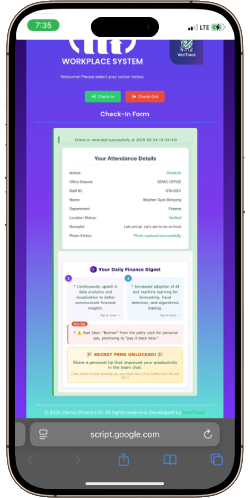
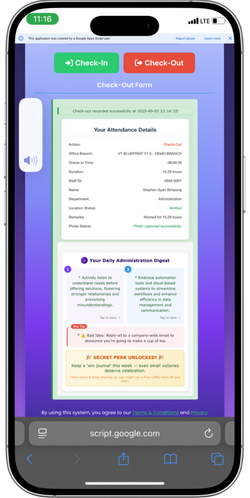
update images

diff --git a/index.html b/index.html
@@ -525,7 +525,7 @@ URI     : https://colorlib.com
                 </div>
                 <!-- Center Column: iPhone Image -->
                 <div class="col-12 col-lg-4 d-flex align-items-center justify-content-center mb-4 mb-lg-0">
-                    <img src="images/VeriTrack gif.png" alt="iPhone screen" class="img-fluid" style="max-height: 400px;">
+                    <img src="images/iphone-screen-with-shadow.png" alt="iPhone screen" class="img-fluid" style="max-height: 400px;">
                 </div>
                 <!-- Right Column Features -->
                 <div class="col-12 col-lg-4">
@@ -1959,7 +1959,7 @@ URI     : https://colorlib.com
     </div>
     <!-- // end .section -->
     <footer class="my-5 text-center">
-        <p class="mb-2"><small>COPYRIGHT © 2025. ALL RIGHTS RESERVED. DEVELOPED BY <a href="">SMARTLINKCO</a></small></p>
+        <p class="mb-2"><small>COPYRIGHT © 2025. ALL RIGHTS RESERVED.</small></p>
 
         <small>
             <a href="#" class="m-2">MANUAL</a>

diff --git a/agent.html b/agent.html
@@ -1769,7 +1769,7 @@ URI     : https://colorlib.com
     </div>
     <!-- // end .section -->
     <footer class="my-5 text-center">
-        <p class="mb-2"><small>COPYRIGHT © 2025. ALL RIGHTS RESERVED. DEVELOPED BY BY <a href="">SMARTLINKCO</a></small></p>
+        <p class="mb-2"><small>COPYRIGHT © 2025. ALL RIGHTS RESERVED.</small></p>
 
         <small>
             <a href="#" class="m-2">MANUAL</a>

diff --git a/agentsTCs.html b/agentsTCs.html
@@ -541,7 +541,7 @@ URI     : https://colorlib.com
     </div>
     <!-- // end .section -->
     <footer class="my-5 text-center">
-        <p class="mb-2"><small>COPYRIGHT © 2025. ALL RIGHTS RESERVED. DEVELOPED BY BY <a href="">SMARTLINKCO</a></small></p>
+        <p class="mb-2"><small>COPYRIGHT © 2025. ALL RIGHTS RESERVED.</small></p>
 
         <small>
             <a href="#" class="m-2">MANUAL</a>

diff --git a/privacyPolicy.html b/privacyPolicy.html
@@ -558,7 +558,7 @@ URI     : https://colorlib.com
     </div>
     <!-- // end .section -->
     <footer class="my-5 text-center">
-        <p class="mb-2"><small>COPYRIGHT © 2025. ALL RIGHTS RESERVED. DEVELOPED BY BY <a href="">SMARTLINKCO</a></small></p>
+        <p class="mb-2"><small>COPYRIGHT © 2025. ALL RIGHTS RESERVED.</small></p>
 
         <small>
             <a href="#" class="m-2">MANUAL</a>

diff --git a/termsAndConditions.html b/termsAndConditions.html
@@ -517,7 +517,7 @@ URI     : https://colorlib.com
     </div>
     <!-- // end .section -->
     <footer class="my-5 text-center">
-        <p class="mb-2"><small>COPYRIGHT © 2025. ALL RIGHTS RESERVED. DEVELOPED BY BY <a href="">SMARTLINKCO</a></small></p>
+        <p class="mb-2"><small>COPYRIGHT © 2025. ALL RIGHTS RESERVED.</small></p>
 
         <small>
             <a href="#" class="m-2">MANUAL</a>

diff --git a/demo.html b/demo.html
@@ -752,7 +752,7 @@ URI     : https://colorlib.com
     </div>
     <!-- // end .section -->
     <footer class="my-5 text-center">
-        <p class="mb-2"><small>COPYRIGHT © 2025. ALL RIGHTS RESERVED. DEVELOPED BY BY <a href="">SMARTLINKCO</a></small></p>
+        <p class="mb-2"><small>COPYRIGHT © 2025. ALL RIGHTS RESERVED.</p>
 
         <small>
             <a href="#" class="m-2">MANUAL</a>
